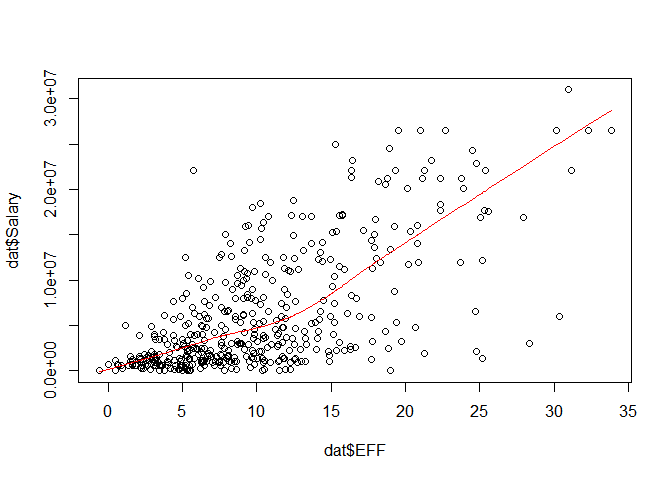
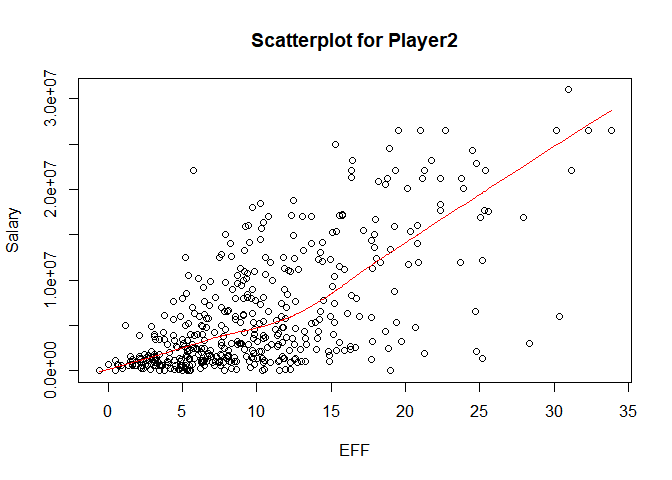
modified graph

Changed region(s): [[0.375, 0.0625, 0.6875, 0.125], [0.4688, 0.9062, 0.5625, 0.9688], [0.0, 0.4062, 0.0312, 0.5625]]

diff --git a/hw02/hw02-Gun-Kim.md b/hw02/hw02-Gun-Kim.md
@@ -14,7 +14,7 @@ Gun Yeup Kim
     ## package 'readr' successfully unpacked and MD5 sums checked
     ## 
     ## The downloaded binary packages are in
-    ##  C:\Users\Gun Yeup Kim\AppData\Local\Temp\RtmpMB7a3r\downloaded_packages
+    ##  C:\Users\Gun Yeup Kim\AppData\Local\Temp\RtmpaGwwes\downloaded_packages
 
 ``` r
 library(dplyr)
@@ -279,7 +279,7 @@ str(dat2)
 
 ``` r
   #Efficiency and Salary
-  plot(dat$EFF, dat$Salary)+lines(lowess(dat$EFF,dat$Salary), col = "red")
+  plot(dat$EFF, dat$Salary, main = "Scatterplot for Player2", xlab = "EFF", ylab = "Salary")+lines(lowess(dat$EFF,dat$Salary), col = "red")
 ```
 
 ![](hw02-Gun-Kim_files/figure-markdown_github-ascii_identifiers/unnamed-chunk-9-1.png)
